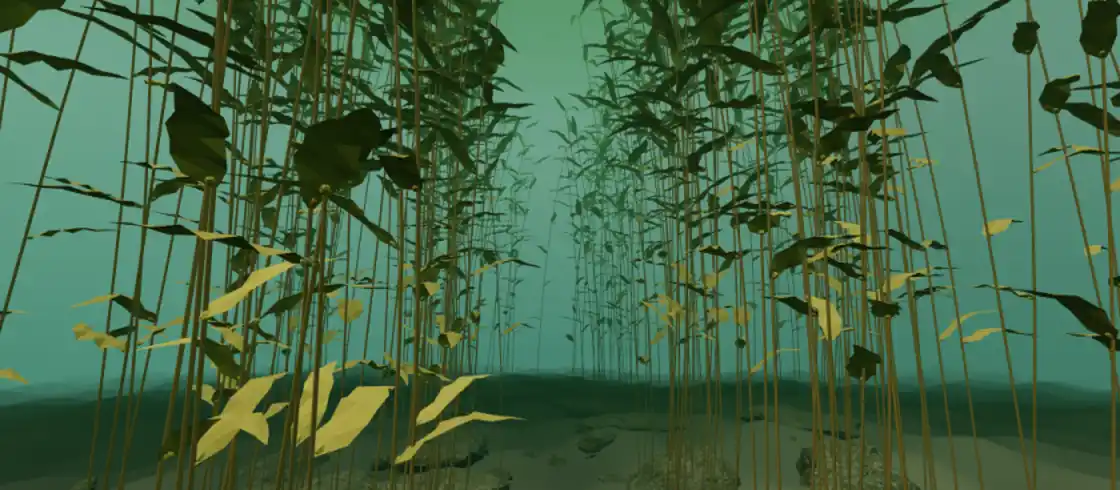
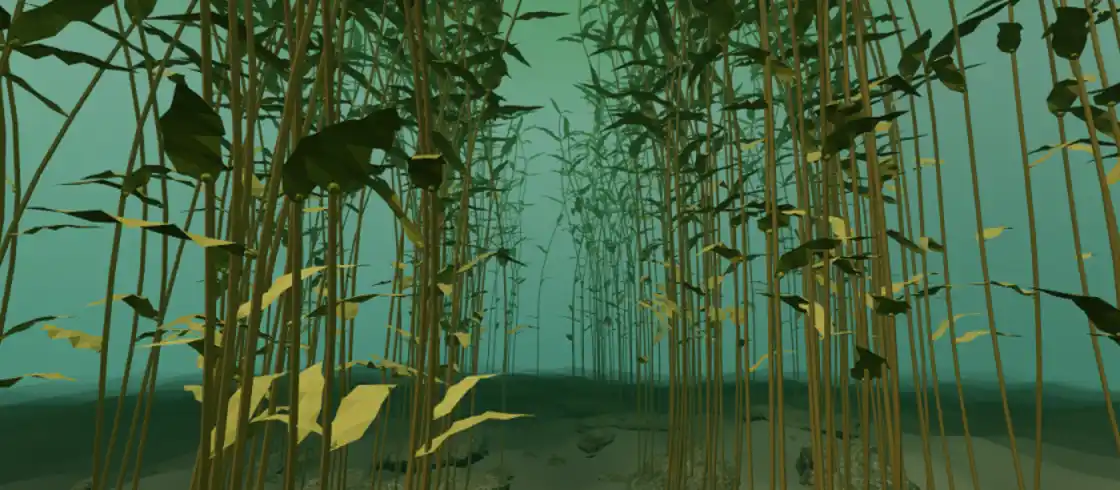
Soften kelp stipe motion and increase stalk thickness

diff --git a/src/components/kelpMotion.js b/src/components/kelpMotion.js
@@ -2,7 +2,8 @@ import { Box3, Vector3 } from 'three'
 import { SURFACE_PLANE_Y } from '../utils/waterSurfaceGeometry.js'
 
 const SOLVER_PASSES = 6
-const STEM_LINKS = 8
+const STEM_LINKS = 16
+const CURRENT_WAVE_NUMBER = 0.17 // Radians per WU, about one bend cycle per 37 WU of stipe.
 
 function point(rest, anchor = null) {
   return { rest, anchor, position: anchor ? anchor.position.clone().add(rest) : rest.clone(), previous: null }
@@ -16,24 +17,27 @@ export function makeKelp(root, height, random) {
   const step = height / STEM_LINKS
   const phase = random() * Math.PI * 2
   const lean = new Vector3(Math.cos(phase), 0, Math.sin(phase)).multiplyScalar(height * 0.085)
+  const crossLean = new Vector3(-Math.sin(phase), 0, Math.cos(phase)).multiplyScalar(height * 0.07)
   for (let i = 0; i <= STEM_LINKS; i += 1) {
     const t = i / STEM_LINKS
     const rest = root.clone().addScaledVector(lean, t * t)
+    rest.addScaledVector(crossLean, Math.sin(t * Math.PI * 2) * t)
     rest.y += step * i
     const joint = point(rest)
     stalk.push(joint.position)
     if (i > 0) {
-      links.push({ a: points[i - 1], b: joint, length: step, aWeight: i === 1 ? 0 : 0.5 })
+      const parent = points[i - 1]
+      links.push({ a: parent, b: joint, length: rest.distanceTo(parent.rest), aWeight: i === 1 ? 0 : 0.5 })
     }
     points.push(joint)
   }
 
   // More blades near the light. Each pair of free points shares its root with the stipe.
   let azimuth = phase
-  for (const index of [2, 3, 4, 5, 5, 6, 6, 7, 7, 8, 8]) {
-    const anchor = points[index]
+  for (const fraction of [0.25, 0.375, 0.5, 0.625, 0.625, 0.75, 0.75, 0.875, 0.875, 1, 1]) {
+    const anchor = points[Math.round(fraction * STEM_LINKS)]
     azimuth += 2.39996 + random() * 0.5
-    const length = (2.7 + random() * 2.6) * (0.68 + 0.32 * index / STEM_LINKS)
+    const length = (2.7 + random() * 2.6) * (0.68 + 0.32 * fraction)
     const direction = new Vector3(Math.cos(azimuth), 0.25 + random() * 0.45, Math.sin(azimuth)).normalize()
     const middle = point(direction.clone().multiplyScalar(length / 2), anchor)
     const endRest = direction.multiplyScalar(length)
@@ -96,20 +100,27 @@ export function advanceKelp(plant, time, dt, colliders) {
   }
   const damping = Math.exp(-4.2 * dt) * (plant.step ? dt / plant.step : 1)
   const dtSq = dt * dt
+  const swellPhase = time * 0.87 + root.x * 0.07 + root.z * 0.04
+  const bendPhase = time * 0.96 + phase
+  const plantSurge = 2.4 + Math.sin(time * 1.31 + phase) * 0.9
   plant.step = dt
 
   for (let i = 1; i < points.length; i += 1) {
     const { position, previous, rest, anchor } = points[i]
-    const t = Math.max(0, Math.min(1, (position.y - root.y) / height))
-    // Long swell is shared across the bed, with a travelling phase up each stipe.
-    const swell = time * 0.87 + root.x * 0.07 + root.z * 0.04 - t * 1.8
-    const surge = 2.4 + Math.sin(swell) * 3.8 + Math.sin(time * 1.31 + phase) * 0.9
+    const rise = (anchor?.rest.y ?? rest.y) - root.y
+    const t = rise / height
+    // The bed shares the slow swell. A shorter spatial wave bends sections of the same
+    // stipe in different directions as it travels from the holdfast towards the tip.
+    const swell = swellPhase - t * 1.8
+    const bend = bendPhase - rise * CURRENT_WAVE_NUMBER
+    const surge = plantSurge + Math.sin(swell) * 3.2
     offset.copy(rest)
     if (anchor) offset.add(anchor.position)
-    offset.sub(position).multiplyScalar(anchor ? 3.6 : 0.88)
-    offset.x += surge * (0.25 + t) + (anchor ? Math.sin(time * 2.7 + phase + i) * 2.1 : 0)
-    offset.z += Math.sin(swell * 0.72 + phase) * (anchor ? 2.8 : 1.6)
-    offset.y += anchor ? Math.cos(time * 2.2 + phase + i * 0.8) * 2.8 : 3.2
+    offset.sub(position).multiplyScalar(anchor ? 3.6 : 0.74)
+    offset.x += surge * (0.25 + t) + Math.sin(bend) * (1.0 + t * 2.8)
+    if (anchor) offset.x += Math.sin(time * 2.7 + phase + i) * 2.1
+    offset.z += Math.sin(swell * 0.72 + phase) * (anchor ? 2.8 : 1.6) + Math.cos(bend) * (0.8 + t * 2.2)
+    offset.y += anchor ? Math.cos(time * 2.2 + phase + i * 0.8) * 2.8 : 2.1
     velocity.subVectors(position, previous).multiplyScalar(damping)
     previous.copy(position)
     position.add(velocity).addScaledVector(offset, dtSq)

diff --git a/src/components/kelpSkin.js b/src/components/kelpSkin.js
@@ -1,6 +1,8 @@
 import * as THREE from 'three'
 import { mergeGeometries } from 'three/addons/utils/BufferGeometryUtils.js'
 
+const STEM_WIDTH = 0.15
+
 function starterBlade() {
   const widths = [0.08, 0.38, 0.49, 0.44, 0.52, 0.37, 0.29, 0.16, 0.01]
   const card = new THREE.PlaneGeometry(1, 1, 2, widths.length - 1).translate(0, 0.5, 0)
@@ -28,7 +30,8 @@ export function makeKelpTemplate(gltf, isStem) {
     mesh = object
   })
   if (gltf && !mesh) throw new Error('Kelp asset has no mesh')
-  const source = mesh?.geometry ?? (isStem ? new THREE.CylinderGeometry(0.5, 0.5, 1, 5, 2, true) : starterBlade())
+  // One span per link keeps the starter stem's triangle count at sixteen spans.
+  const source = mesh?.geometry ?? (isStem ? new THREE.CylinderGeometry(0.5, 0.5, 1, 5, 1, true) : starterBlade())
   const material = mesh?.material.clone() ?? new THREE.MeshStandardMaterial({
     color: isStem ? '#77612e' : '#998338', roughness: 0.83, envMapIntensity: 0.32,
   })
@@ -86,7 +89,7 @@ export function makeKelpBatch(template, plants) {
   const sections = plants.flatMap(plant => {
     plant.skin ??= []
     if (!isStem) return plant.blades.map(blade => ({ plant, ...blade, repeats: 1 }))
-    return [{ plant, points: plant.stalk, across: acrossStem, width: 0.086, shade: 0.9, repeats: plant.stalk.length - 1 }]
+    return [{ plant, points: plant.stalk, across: acrossStem, width: STEM_WIDTH, shade: 0.9, repeats: plant.stalk.length - 1 }]
   })
   const vertexCount = sections.reduce((total, section) => total + section.repeats * count, 0)
   const geometry = new THREE.BufferGeometry()

diff --git a/src/version.js b/src/version.js
@@ -1,3 +1,3 @@
-export const APP_VERSION = 'v0.51.0-dev_2'
+export const APP_VERSION = 'v0.51.0-dev_3'
 export const APP_VERSION_LABEL = `world oceanarium ${APP_VERSION}`
 export const APP_VERSION_SHORT_LABEL = APP_VERSION

diff --git a/ROADMAP.md b/ROADMAP.md
@@ -15,10 +15,11 @@ Status labels:
 
 ### The Kelp Forest reserve
 
-Status: `Current in development` — `v0.51.0-dev_2` · [Kelp motion and asset contract](docs/kelp-forest.md).
+Status: `Current in development` — `v0.51.0-dev_3` · [Kelp motion and asset contract](docs/kelp-forest.md).
 
 - [x] Set up a temperate eastern Pacific habitat with rocky beds of giant kelp, simulated stipes and blades, and one-way contact in Diver mode.
 - [x] Thicken the side beds, frame a clear middle channel from the resting camera, and grade the water greener against Jeremy's reference.
+- [x] Soften the stipe motion with more joints and shorter current waves. Increase the rendered stem width.
 - [ ] Replace the starter blade card and repeated stipe segment with Jeremy's assets. Refresh the selector still once the art is accepted.
 - [ ] Review contact and frame time on a physical phone. Choose a roster, add its species to the fish queue, and update the descent when stocking is planned.
 

diff --git a/docs/kelp-forest.md b/docs/kelp-forest.md
@@ -11,8 +11,11 @@ and [NOAA Monterey Bay National Marine Sanctuary](https://montereybay.noaa.gov/s
 
 `src/data/landscapes.js` owns the bed layout and asset paths. `KelpForest.jsx`
 raycasts the drawn rock meshes at mount to pin each holdfast. `kelpMotion.js`
-simulates eight stipe links and eleven blades, with a middle and tip per blade.
+simulates 17 stipe points and eleven blades, with a middle and tip per blade.
 Damped Verlet integration and six length solves carry the swell up each stipe.
+The stipe starts from a shallow S-curve. A shorter current wave (about 37 WU per
+cycle) travels along it over the slower bed-wide swell, so sections can bend
+at different times. The rendered stipe is 0.15 WU wide.
 Nearby registered fish contribute body-length capsules. The diver camera carries a
 1.2 WU sphere in Diver mode, so the contact can be reviewed before stocking.
 Both shapes project points out and remove inward velocity. Contact moves the kelp

diff --git a/CHANGELOG.md b/CHANGELOG.md
@@ -14,7 +14,7 @@ Status: in development on `feat/kelp-forest`.
 
 ### Environment
 
-- The Kelp Forest opens for habitat review. Dense banks of giant kelp frame an open channel of green water. The rock-anchored stipes bend in the swell, and their blades flex independently. Passing fish or the diver can brush the kelp aside. The stipe segment and blade card are separate, replaceable assets.
+- The Kelp Forest opens for habitat review. Dense banks of giant kelp frame an open channel of green water. The thicker, rock-anchored stipes bend in sections as the swell travels up them, and their blades flex independently. Passing fish or the diver can brush the kelp aside. The stipe segment and blade card are separate, replaceable assets.
 
 ## v0.50.0 — East Pacific Green Turtle and seagrass
 
